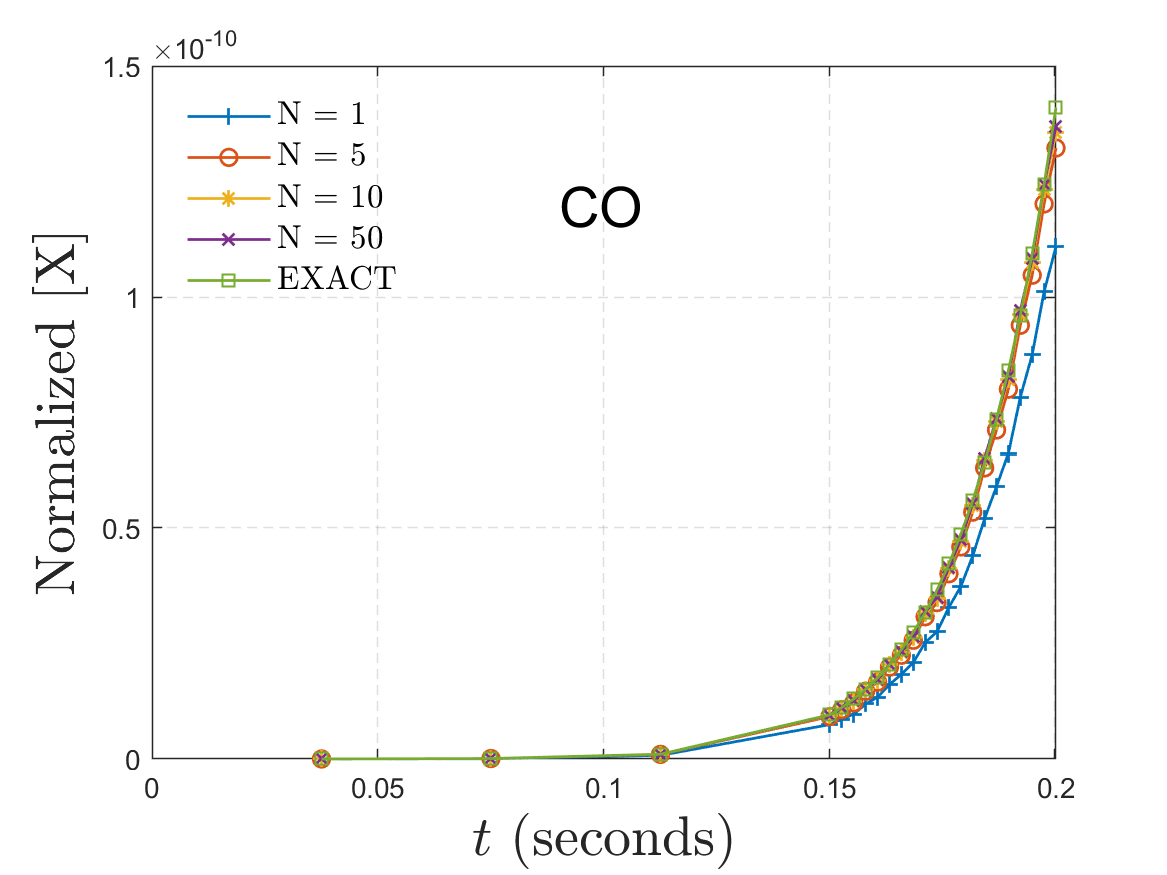
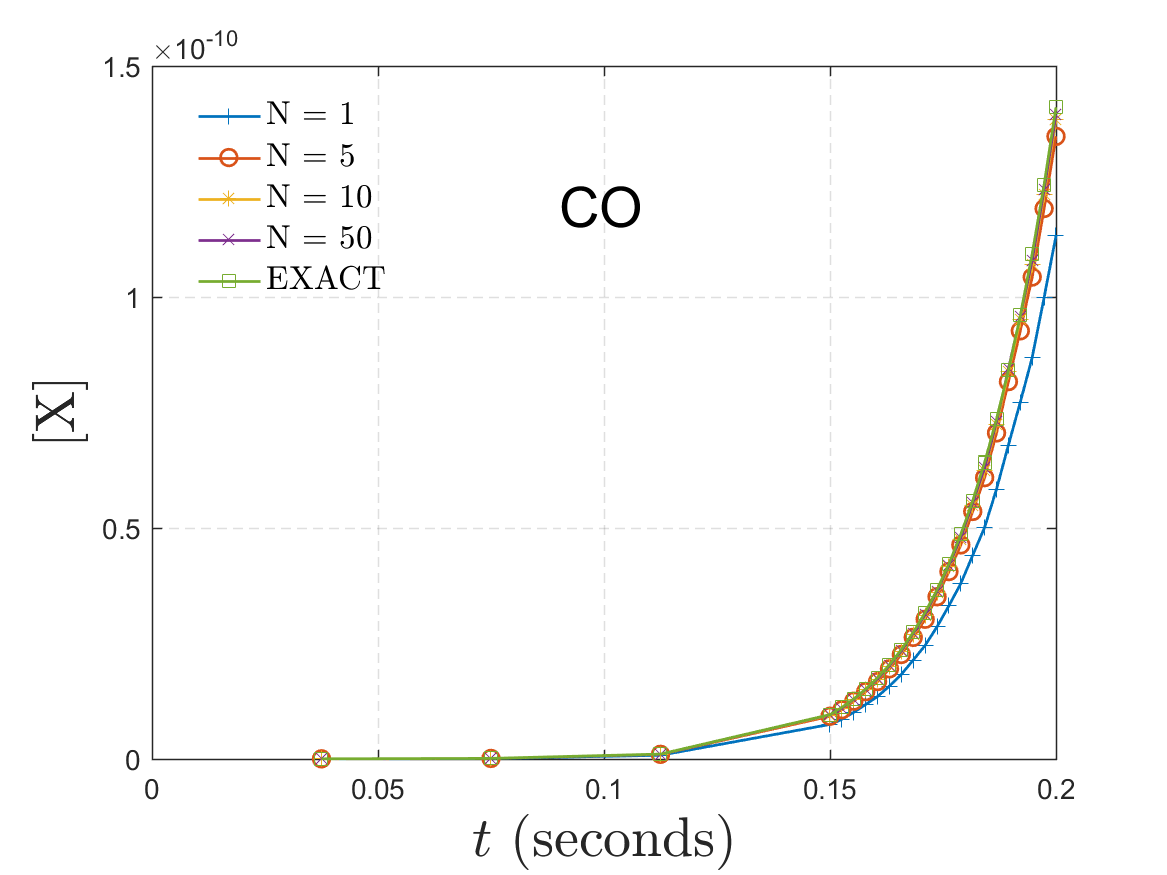
minor

diff --git a/main_driver.py b/main_driver.py
@@ -78,7 +78,7 @@ if __name__ == '__main__':
         no_path_reg=G_S['no_path_reg'],
         species_path=G_S['species_path'],
         begin_t=0.0,
-        mc_end_t_threshlod=0.5,
+        mc_end_t_threshlod=0.15,
         end_t_vec=[0.0482215780729, 0.0964431561458, 0.144664734219, 0.192886312292, 0.196270282683, 0.199654253074, 0.203038223465, 0.206422193856, 0.209806164247, 0.213190134638, 0.216574105029, 0.21995807542, 0.223342045811, 0.226726016202, 0.230109986594, 0.233493956985, 0.236877927376, 0.240261897767, 0.243645868158, 0.247029838549, 0.25041380894, 0.253797779331, 0.257181749722])
 
     # j_b.evaluate_pathway_AT(

diff --git a/theory/misc/trajectory_convergence/DOE_talk_650/CO_primitive_pathway/species_conc_path_prob_convergence_v2.m b/theory/misc/trajectory_convergence/DOE_talk_650/CO_primitive_pathway/species_conc_path_prob_convergence_v2.m
@@ -62,7 +62,7 @@ clearvars f_n_pp delimiter formatSpec fileID dataArray ans;
 %% global properties
 idx_vec = [1 5 10 50];
 N = length(idx_vec);
-y_label_str = 'Normalized [X]';
+y_label_str = '[X]';
 
 %% plot
 fig = figure();
